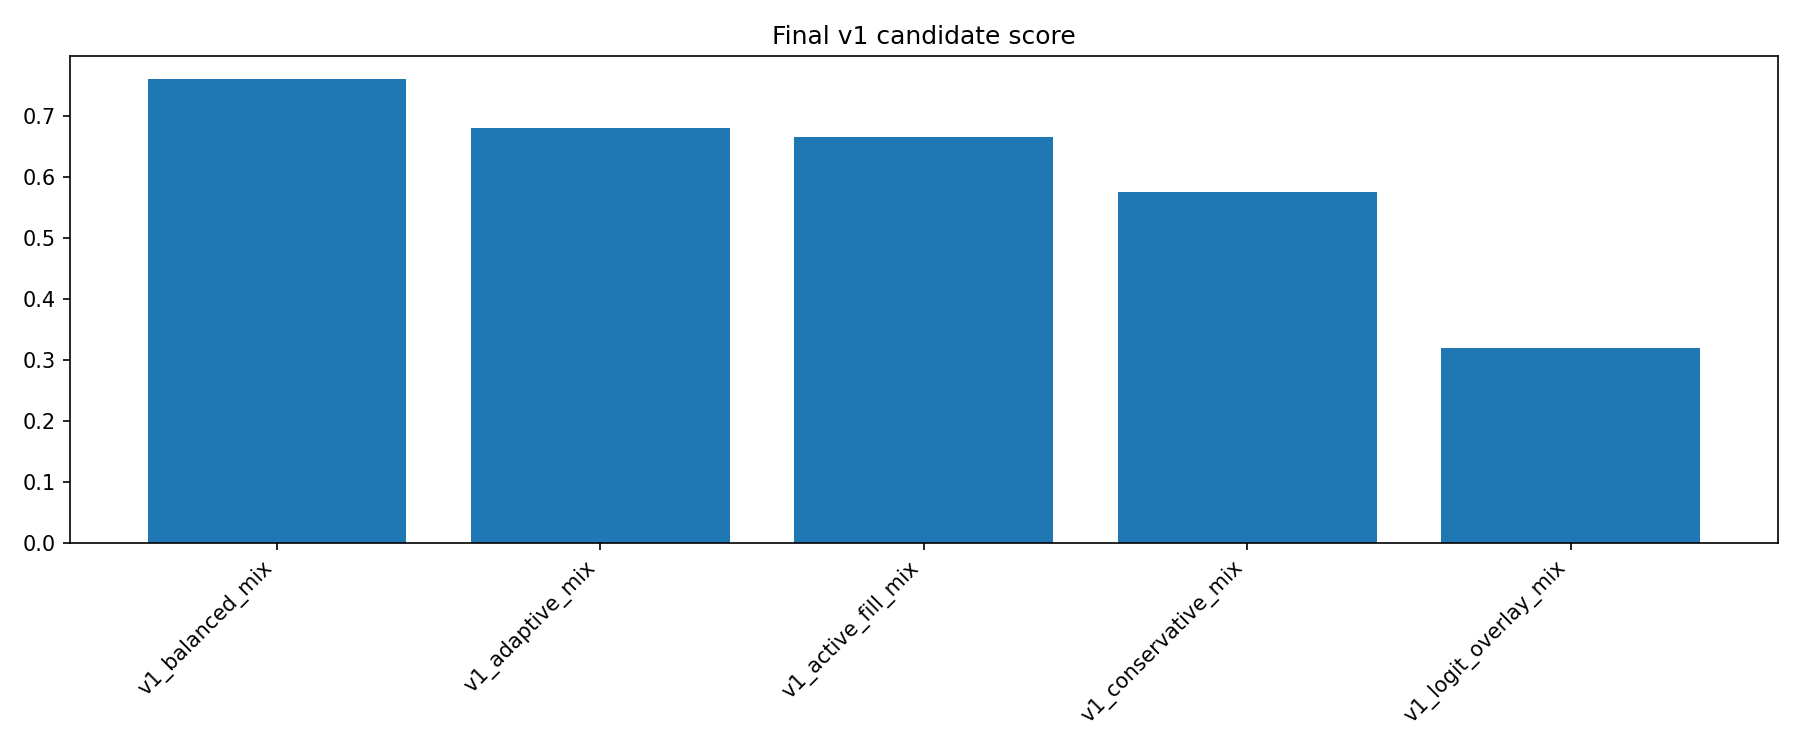
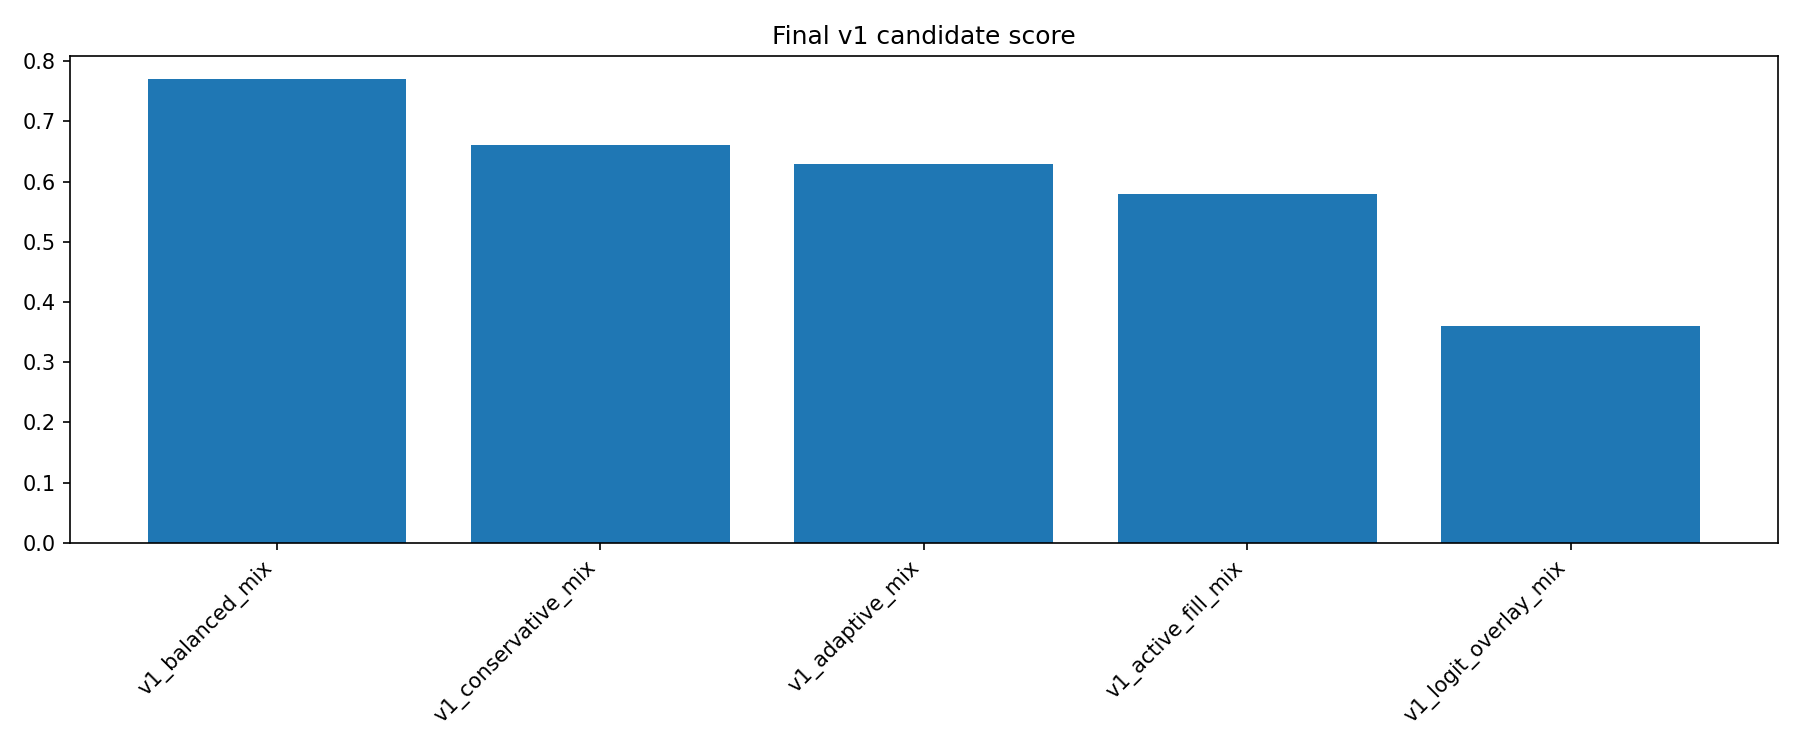
Update final v1 latest complete run outputs [skip ci]

diff --git a/reports/final_v1_latest_complete_run/final_v1_latest_complete_report.md b/reports/final_v1_latest_complete_run/final_v1_latest_complete_report.md
@@ -4,7 +4,7 @@
 
 - 先看当前 `monthly_runs/*` 每个 run 的文件数
 - 以**最大文件数 = 48** 作为“完整 run”的标准
-- 在所有完整 run 中，取 `run_name` 最新的一个：**24986940107_attempt1**
+- 在所有完整 run 中，取 `run_name` 最新的一个：**25157440693_attempt1**
 
 ## 当前 monthly_runs 覆盖
 
@@ -13,39 +13,46 @@
 | 24949259015_attempt1 |           48 |           39535 |
 | 24952032748_attempt1 |           48 |           36019 |
 | 24986940107_attempt1 |           48 |           40793 |
-| 25044896828_attempt1 |           24 |           18602 |
+| 25044896828_attempt1 |           48 |           39723 |
+| 25100490855_attempt1 |           48 |           40583 |
+| 25157440693_attempt1 |           48 |           40774 |
+| 25208977834_attempt1 |           18 |           14783 |
 
-## 仅针对 `24986940107_attempt1` 的 final v1 候选结果
+## 仅针对 `25157440693_attempt1` 的 final v1 候选结果
 
 | strategy             |   trades |   ending_bankroll |   total_return |   avg_trade_return_on_cost |   median_trade_return_on_cost |   win_rate |   profit_factor |   max_drawdown |   avg_fraction |   worst_144_window_return |   median_144_window_return |   pct_positive_144_windows |   pct_over_10pct_144_windows |   active_144_window_rate |   num_144_windows |   score_end |   score_dd |   score_36h |   score_36h_10 |   score_active |   score_pf |   v1_score | meets_dd_lt_30   | meets_36h_gt_10_all   | meets_v1_goal   |
 |:---------------------|---------:|------------------:|---------------:|---------------------------:|------------------------------:|-----------:|----------------:|---------------:|---------------:|--------------------------:|---------------------------:|---------------------------:|-----------------------------:|-------------------------:|------------------:|------------:|-----------:|------------:|---------------:|---------------:|-----------:|-----------:|:-----------------|:----------------------|:----------------|
-| v1_balanced_mix      |       10 |           151.222 |         0.5122 |                     0.4773 |                        0.535  |          1 |             nan |              0 |         0.086  |                    0.1771 |                     0.2556 |                          1 |                            1 |                        1 |               146 |         0.8 |        0.6 |         1   |            0.7 |            0.7 |        0.6 |      0.76  | True             | True                  | True            |
-| v1_adaptive_mix      |        9 |           148.043 |         0.4804 |                     0.5136 |                        0.5469 |          1 |             nan |              0 |         0.087  |                    0.1588 |                     0.2214 |                          1 |                            1 |                        1 |               146 |         0.6 |        0.6 |         0.8 |            0.7 |            0.7 |        0.6 |      0.68  | True             | True                  | True            |
-| v1_active_fill_mix   |       13 |           153.605 |         0.5361 |                     0.577  |                        0.5714 |          1 |             nan |              0 |         0.06   |                    0.1402 |                     0.2364 |                          1 |                            1 |                        1 |               146 |         1   |        0.6 |         0.5 |            0.7 |            0.7 |        0.6 |      0.665 | True             | True                  | True            |
-| v1_conservative_mix  |        9 |           137.167 |         0.3717 |                     0.5136 |                        0.5469 |          1 |             nan |              0 |         0.0689 |                    0.1402 |                     0.1923 |                          1 |                            1 |                        1 |               146 |         0.4 |        0.6 |         0.5 |            0.7 |            0.7 |        0.6 |      0.575 | True             | True                  | True            |
-| v1_logit_overlay_mix |        0 |           100     |         0      |                   nan      |                      nan      |        nan |             nan |              0 |       nan      |                    0      |                     0      |                          0 |                            0 |                        0 |               146 |         0.2 |        0.6 |         0.2 |            0.2 |            0.2 |        0.6 |      0.32  | True             | False                 | False           |
+| v1_balanced_mix      |       11 |           158.471 |         0.5847 |                     0.458  |                        0.5    |     0.9091 |          7.9945 |         0.081  |         0.0891 |                    0.2286 |                     0.2673 |                          1 |                            1 |                        1 |               146 |         1   |        0.4 |         1   |            0.7 |            0.7 |        0.8 |       0.77 | True             | True                  | True            |
+| v1_conservative_mix  |       10 |           143.637 |         0.4364 |                     0.4845 |                        0.5115 |     0.9    |          8.0136 |         0.0608 |         0.072  |                    0.1706 |                     0.1983 |                          1 |                            1 |                        1 |               146 |         0.6 |        0.8 |         0.4 |            0.7 |            0.7 |        1   |       0.66 | True             | True                  | True            |
+| v1_adaptive_mix      |       10 |           151.823 |         0.5182 |                     0.4845 |                        0.5115 |     0.9    |          6.9321 |         0.0847 |         0.0882 |                    0.193  |                     0.2309 |                          1 |                            1 |                        1 |               146 |         0.8 |        0.2 |         0.8 |            0.7 |            0.7 |        0.6 |       0.63 | True             | True                  | True            |
+| v1_active_fill_mix   |       14 |           142.63  |         0.4263 |                     0.3354 |                        0.3847 |     0.8571 |          5.2456 |         0.0777 |         0.0629 |                    0.1822 |                     0.226  |                          1 |                            1 |                        1 |               146 |         0.4 |        0.6 |         0.6 |            0.7 |            0.7 |        0.4 |       0.58 | True             | True                  | True            |
+| v1_logit_overlay_mix |        0 |           100     |         0      |                   nan      |                      nan      |   nan      |        nan      |         0      |       nan      |                    0      |                     0      |                          0 |                            0 |                        0 |               146 |         0.2 |        1   |         0.2 |            0.2 |            0.2 |        0.2 |       0.36 | True             | False                 | False           |
 
 ## session / component 拆分
 
 | strategy            | session_et   | component             |   trades |   avg_pnl_usd |   total_pnl_usd |   avg_fraction |   win_rate |
 |:--------------------|:-------------|:----------------------|---------:|--------------:|----------------:|---------------:|-----------:|
-| v1_active_fill_mix  | london       | london_milddrop       |        8 |        3.507  |         28.0563 |         0.0525 |          1 |
-| v1_active_fill_mix  | us_afternoon | us_afternoon_milddrop |        4 |        6.1937 |         24.7746 |         0.08   |          1 |
-| v1_active_fill_mix  | us_open      | us_open_breakout      |        1 |        0.7743 |          0.7743 |         0.04   |          1 |
-| v1_adaptive_mix     | london       | london_milddrop       |        5 |        4.2412 |         21.2062 |         0.083  |          1 |
-| v1_adaptive_mix     | us_afternoon | us_afternoon_milddrop |        4 |        6.7091 |         26.8364 |         0.0919 |          1 |
-| v1_balanced_mix     | london       | london_milddrop       |        5 |        4.0873 |         20.4365 |         0.08   |          1 |
-| v1_balanced_mix     | us_afternoon | us_afternoon_milddrop |        4 |        7.4232 |         29.693  |         0.1    |          1 |
-| v1_balanced_mix     | us_open      | breakout_filler       |        1 |        1.0923 |          1.0923 |         0.06   |          1 |
-| v1_conservative_mix | london       | london_milddrop       |        5 |        3.0088 |         15.0441 |         0.06   |          1 |
-| v1_conservative_mix | us_afternoon | us_afternoon_milddrop |        4 |        5.5309 |         22.1234 |         0.08   |          1 |
+| v1_active_fill_mix  | asia         | asia_breakout         |        2 |       11.8208 |         23.6415 |         0.08   |     1      |
+| v1_active_fill_mix  | london       | london_milddrop       |        7 |        0.0928 |          0.6497 |         0.0514 |     0.7143 |
+| v1_active_fill_mix  | us_afternoon | us_afternoon_milddrop |        4 |        4.3907 |         17.5629 |         0.08   |     1      |
+| v1_active_fill_mix  | us_open      | us_open_breakout      |        1 |        0.7761 |          0.7761 |         0.04   |     1      |
+| v1_adaptive_mix     | asia         | asia_breakout         |        2 |       14.3661 |         28.7322 |         0.0938 |     1      |
+| v1_adaptive_mix     | london       | london_milddrop       |        4 |        0.6207 |          2.4829 |         0.0816 |     0.75   |
+| v1_adaptive_mix     | us_afternoon | us_afternoon_milddrop |        4 |        5.1521 |         20.6082 |         0.092  |     1      |
+| v1_balanced_mix     | asia         | asia_breakout         |        2 |       15.8699 |         31.7398 |         0.1    |     1      |
+| v1_balanced_mix     | london       | london_milddrop       |        4 |        0.6791 |          2.7165 |         0.08   |     0.75   |
+| v1_balanced_mix     | us_afternoon | us_afternoon_milddrop |        4 |        5.7068 |         22.827  |         0.1    |     1      |
+| v1_balanced_mix     | us_open      | breakout_filler       |        1 |        1.188  |          1.188  |         0.06   |     1      |
+| v1_conservative_mix | asia         | asia_breakout         |        2 |       11.9042 |         23.8084 |         0.08   |     1      |
+| v1_conservative_mix | london       | london_milddrop       |        4 |        0.5354 |          2.1417 |         0.06   |     0.75   |
+| v1_conservative_mix | us_afternoon | us_afternoon_milddrop |        4 |        4.4217 |         17.6868 |         0.08   |     1      |
 
 ## 当前最新完整 run 的最优候选
 
 - 策略：**v1_balanced_mix**
-- 期末本金：**151.22 USD**
-- 最大回撤：**0.00%**
-- 36小时最差窗口收益：**17.71%**
+- 期末本金：**158.47 USD**
+- 最大回撤：**8.10%**
+- 36小时最差窗口收益：**22.86%**
 - 36小时 >10% 窗口占比：**100.00%**
 - active 36小时窗口占比：**100.00%**
 
